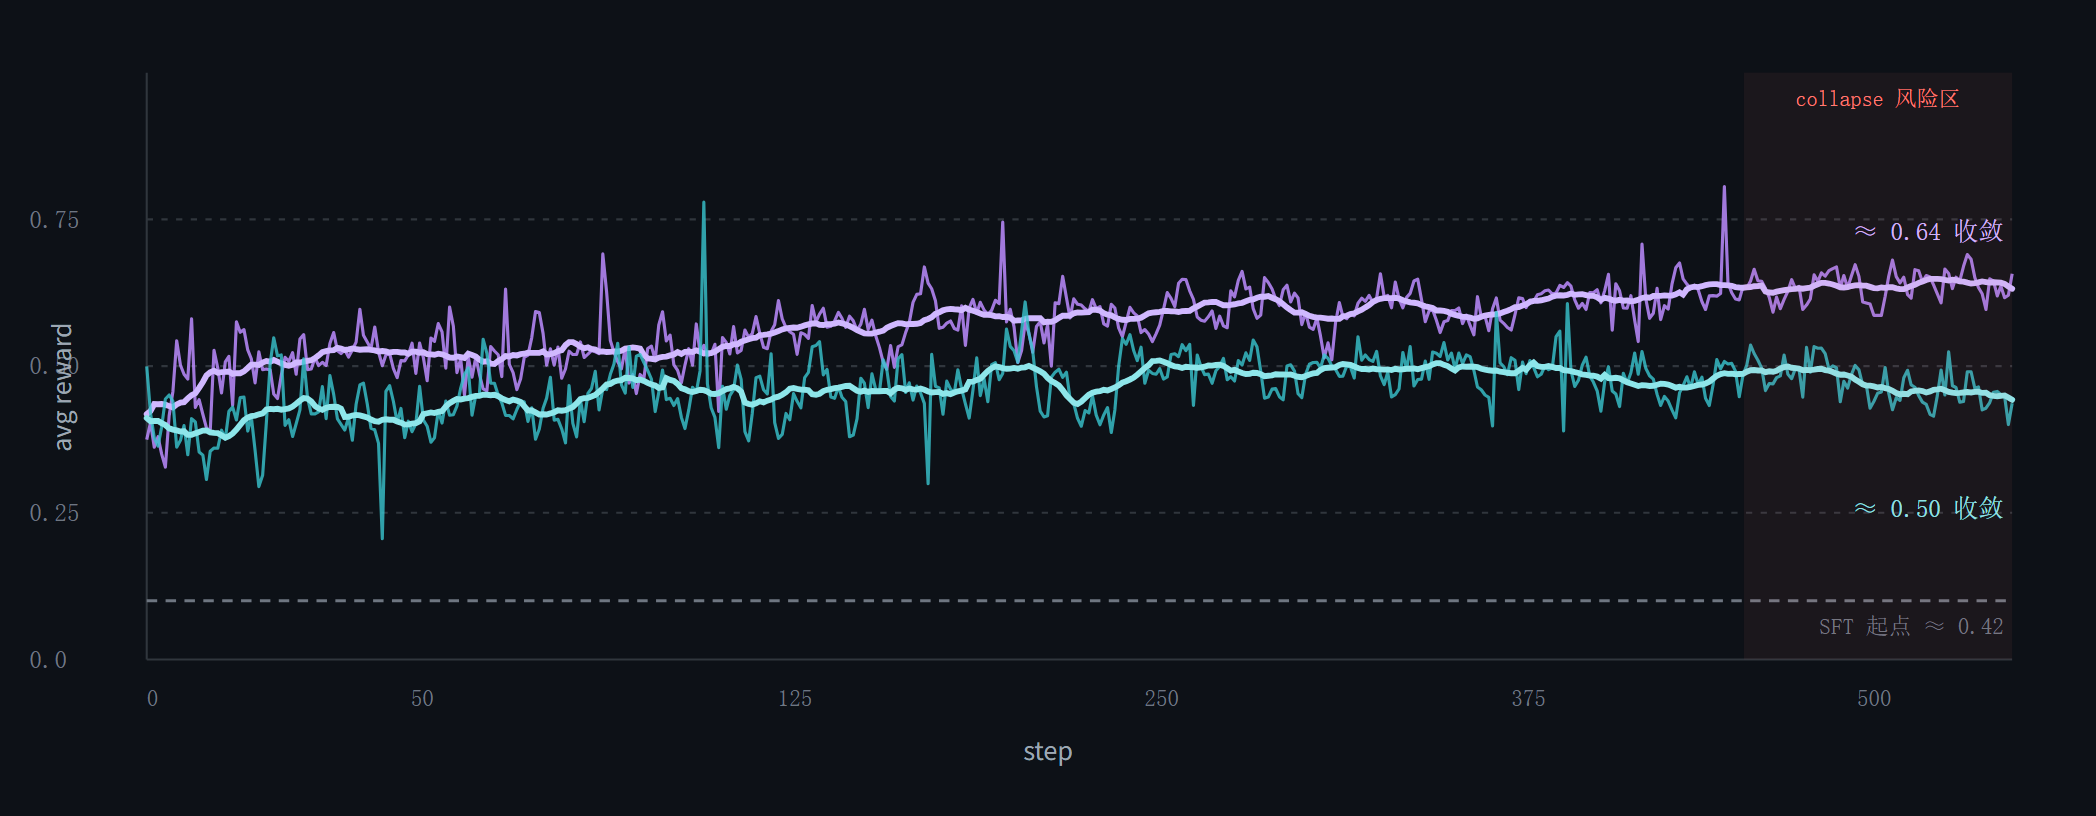
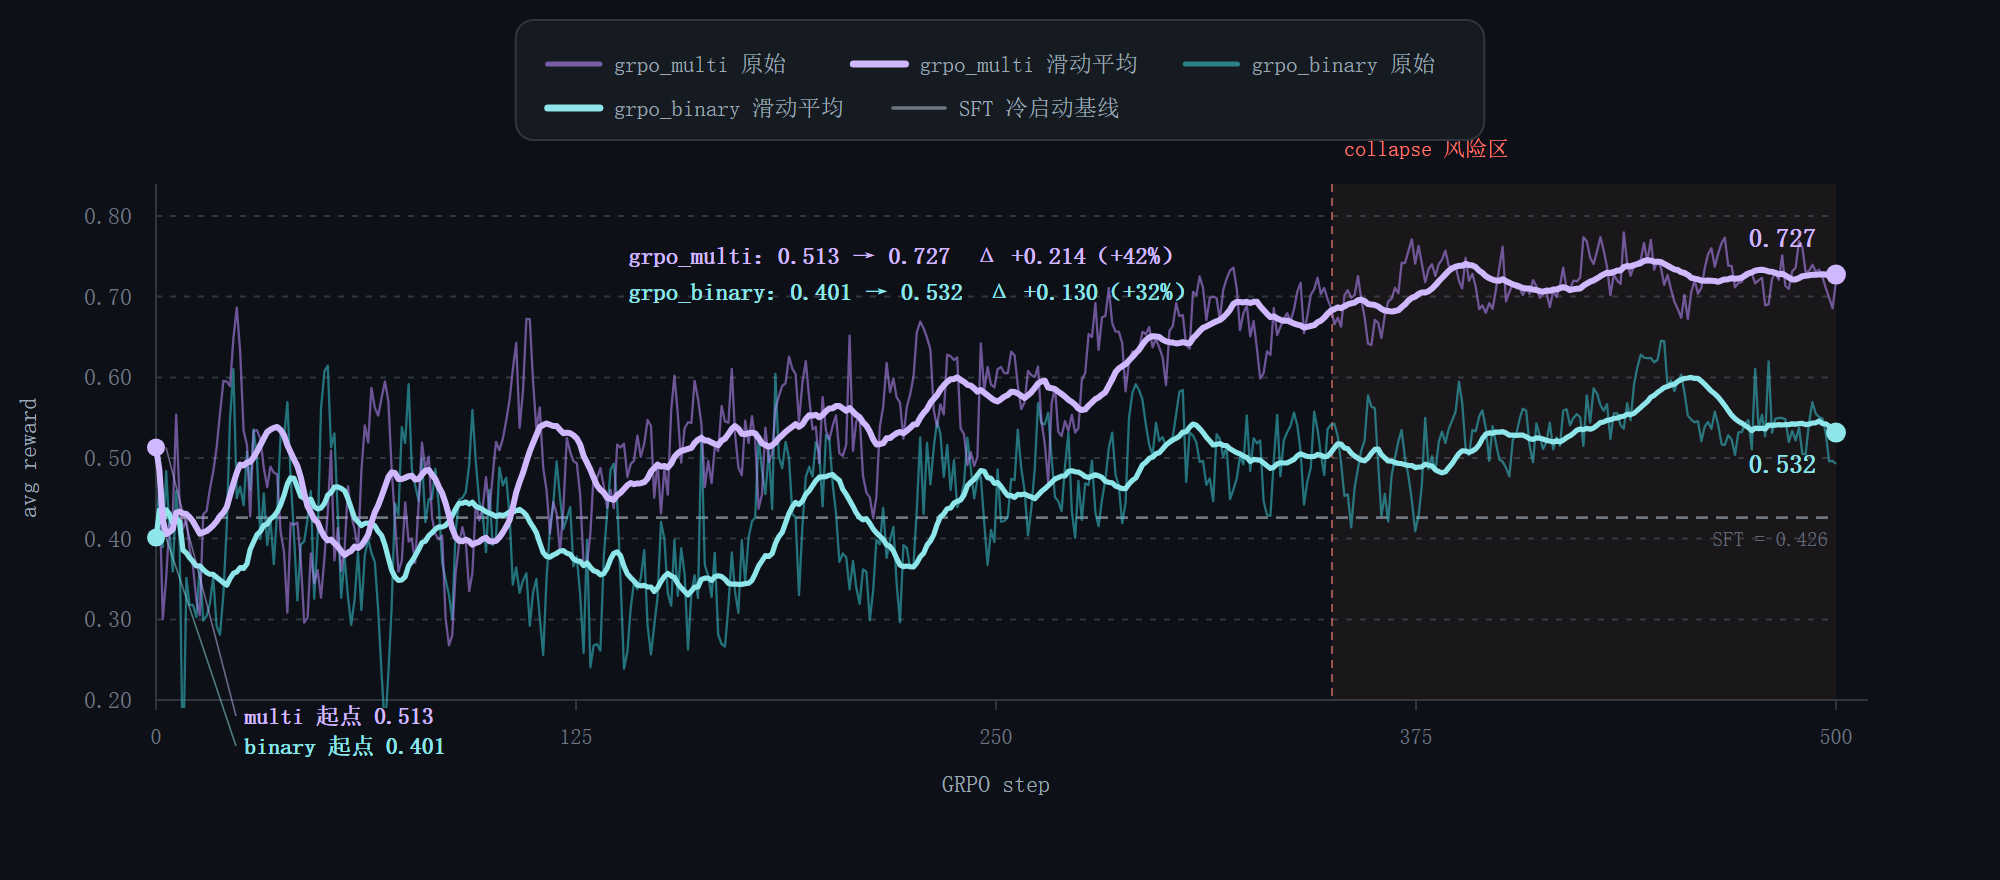
docs: update fig1 reward plot and matching caption

diff --git a/README.md b/README.md
@@ -36,7 +36,7 @@
 
 ![GRPO 训练奖励曲线](docs/results/fig1.png)
 
-图 1 给出两个 GRPO 变体的平均奖励随 step 的变化：粗线为滑动平均，细线为原始逐 step 值。多级奖励在约 0.64 收敛，二值奖励在约 0.50 收敛，二者均从 SFT 起点 ≈0.42 起步。350 step 之后二值奖励的滑动平均开始掉头，图中以 `collapse 风险区` 标出，对应论文中 GRPO group=5 的奖励塌缩现象，故判读趋势应以滑动平均为准。
+图 1 给出两个 GRPO 变体的平均奖励随 step 的变化：粗线为滑动平均，细线为原始逐 step 值。多级奖励由 0.513 提升至 0.727，二值奖励由 0.401 提升至 0.532；SFT 冷启动奖励基线为 0.426。350 step 之后以 `collapse 风险区` 标出需关注的训练区间；二值奖励在该区间仍有波动，不能仅凭风险区标记判定已经发生奖励塌缩，故判读趋势应以滑动平均为准。
 
 **图 2　验证集 EM 随训练步数的变化**
 
